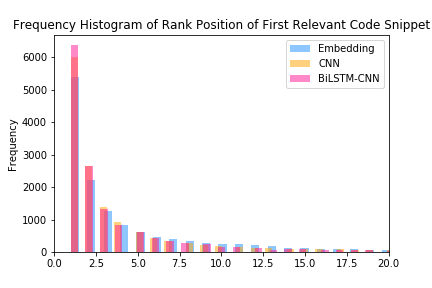
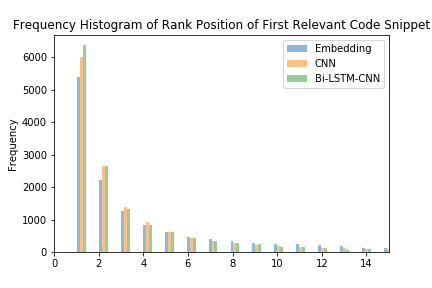
changing joint embedding equation order. histogram results updated

Changed region(s): [[0.1505, 0.1562, 0.9329, 0.9375], [0.662, 0.1562, 0.9028, 0.3125], [0.0903, 0.875, 0.1505, 0.9375]]

diff --git a/demo.tex b/demo.tex
@@ -60,7 +60,7 @@ C^{*} = \underset{C \in \mathbb{C}}{argmax}\text{ } F_{r}(Q , C)
 	Seja $\mathbb{Q}$ o conjunto formado pelas questões e $\mathbb{C}$ o conjunto composto por trechos de código-fonte \cite{Gu-deep-code-search:2018}:
 	
     \begin{equation}
-        \mathbb{C} \xrightarrow{\mathbb{E}_{c}} \mathbb{V}_{c} \rightarrow \mathbb{J}(\mathbb{V}_{c}, \mathbb{V}_{q}) \leftarrow \mathbb{V}_{q} \xleftarrow{\mathbb{E}_{q}} \mathbb{Q}
+        \mathbb{Q} \xrightarrow{f} \mathbb{V}_{q} \rightarrow h_{\theta}(\mathbb{V}_{q}, \mathbb{V}_{c}) \leftarrow \mathbb{V}_{c} \xleftarrow{g} \mathbb{C}
     \end{equation}
 \end{frame}
 
@@ -69,7 +69,7 @@ C^{*} = \underset{C \in \mathbb{C}}{argmax}\text{ } F_{r}(Q , C)
 	Função de perda \textit{hinge} \cite{tan-lstm-qa, Gu-deep-code-search:2018}:
 	
     \begin{equation}
-    L = max(0, m - \mathbb{J}(q_{i}, c_{i}^{+}) + \mathbb{J}(q_{i}, c_{i}^{-}))   
+    L = max(0, m - h_{\theta}(q_{i}, c_{i}^{+}) + h_{\theta}(q_{i}, c_{i}^{-}))   
     \end{equation}
 \end{frame}
 
@@ -134,7 +134,6 @@ C^{*} = \underset{C \in \mathbb{C}}{argmax}\text{ } F_{r}(Q , C)
   \begin{figure}[h]
     \centering
     \includegraphics[width=1\textwidth]{histogram_results.png}
-    \caption{Figura adaptada do \cite{tan-lstm-qa}.}
     \label{fig:histogram-results}
 \end{figure}
 \end{frame}
